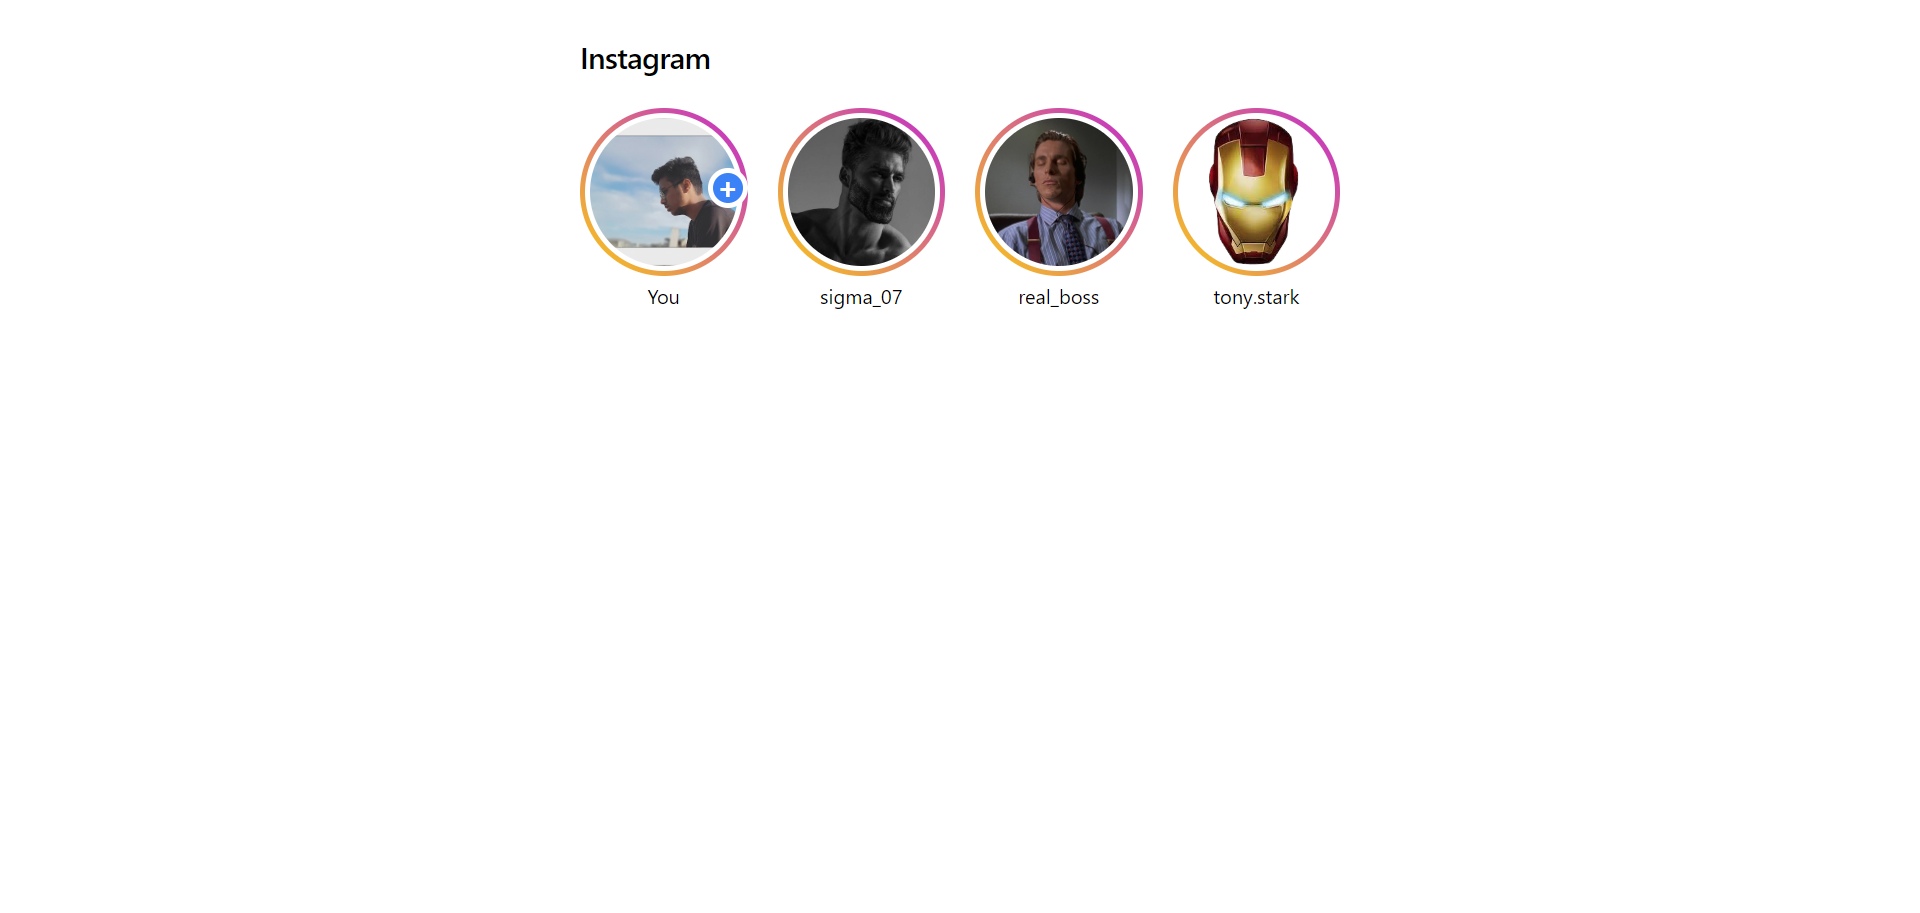
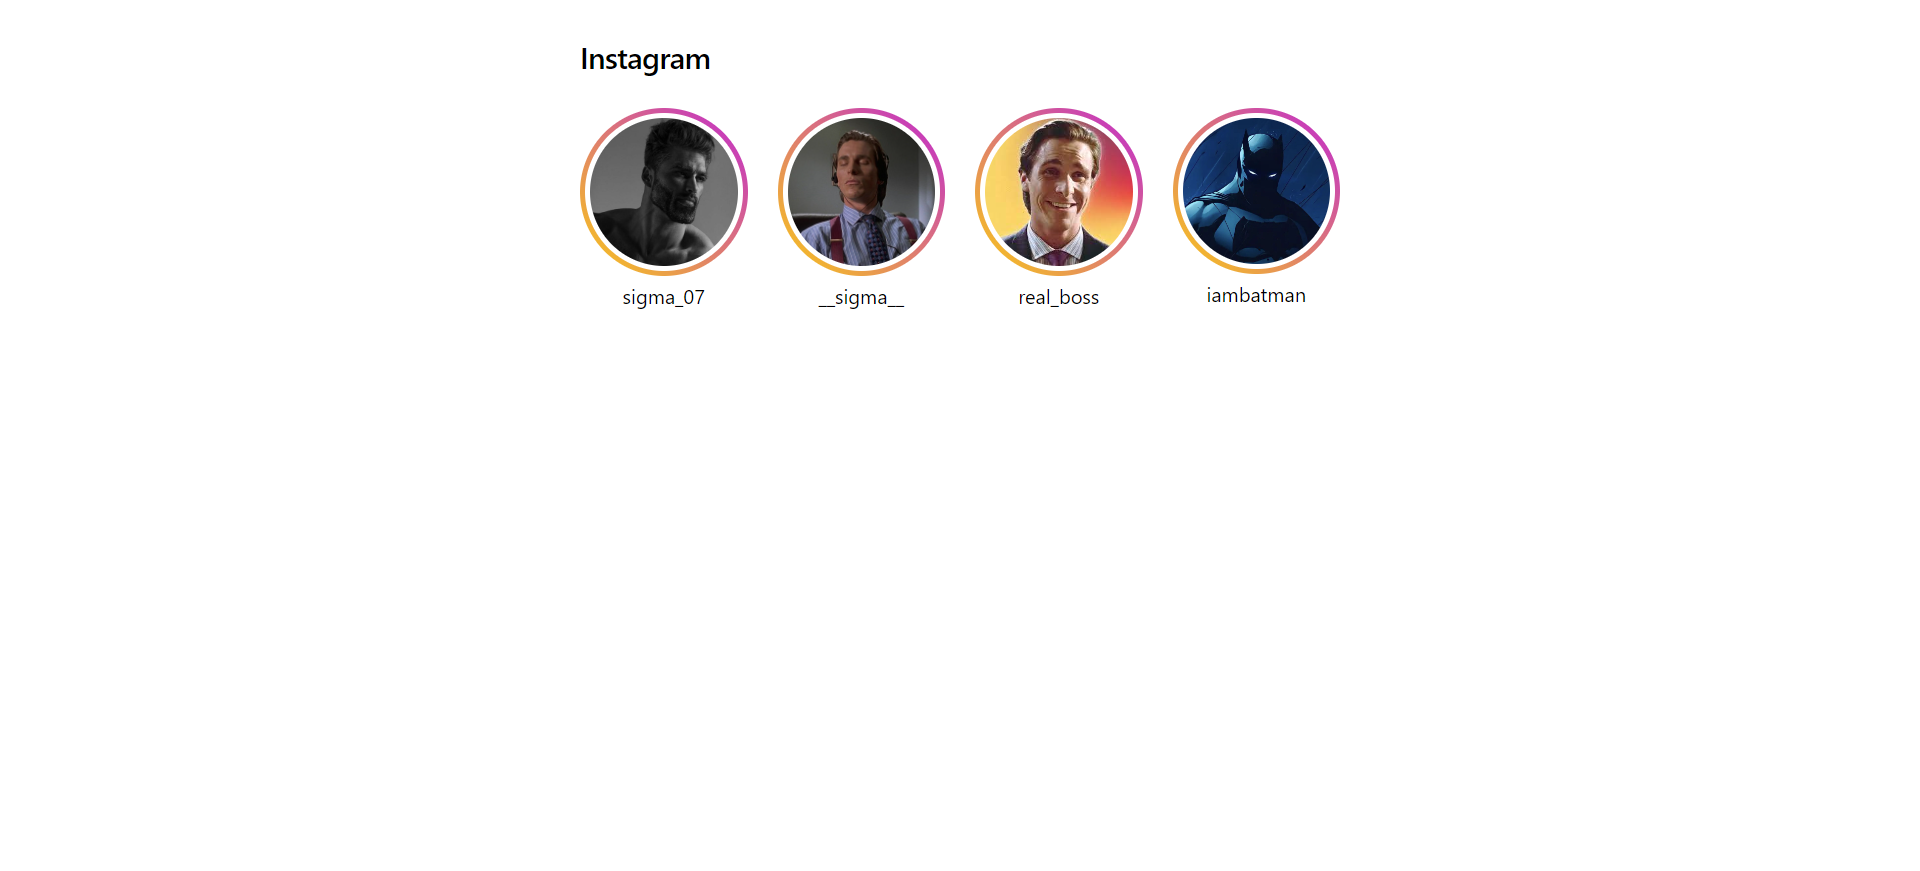
Profile changes

Changed region(s): [[0.2812, 0.093, 0.7188, 0.372], [0.3125, 0.062, 0.375, 0.093]]

diff --git a/dist/assets/index-9c2755db.css b/dist/assets/index-9c2755db.css
@@ -1,0 +1,1 @@
+*,:before,:after{box-sizing:border-box;border-width:0;border-style:solid;border-color:#e5e7eb}:before,:after{--tw-content: ""}html{line-height:1.5;-webkit-text-size-adjust:100%;-moz-tab-size:4;-o-tab-size:4;tab-size:4;font-family:ui-sans-serif,system-ui,-apple-system,BlinkMacSystemFont,Segoe UI,Roboto,Helvetica Neue,Arial,Noto Sans,sans-serif,"Apple Color Emoji","Segoe UI Emoji",Segoe UI Symbol,"Noto Color Emoji";font-feature-settings:normal;font-variation-settings:normal}body{margin:0;line-height:inherit}hr{height:0;color:inherit;border-top-width:1px}abbr:where([title]){-webkit-text-decoration:underline dotted;text-decoration:underline dotted}h1,h2,h3,h4,h5,h6{font-size:inherit;font-weight:inherit}a{color:inherit;text-decoration:inherit}b,strong{font-weight:bolder}code,kbd,samp,pre{font-family:ui-monospace,SFMono-Regular,Menlo,Monaco,Consolas,Liberation Mono,Courier New,monospace;font-size:1em}small{font-size:80%}sub,sup{font-size:75%;line-height:0;position:relative;vertical-align:baseline}sub{bottom:-.25em}sup{top:-.5em}table{text-indent:0;border-color:inherit;border-collapse:collapse}button,input,optgroup,select,textarea{font-family:inherit;font-feature-settings:inherit;font-variation-settings:inherit;font-size:100%;font-weight:inherit;line-height:inherit;color:inherit;margin:0;padding:0}button,select{text-transform:none}button,[type=button],[type=reset],[type=submit]{-webkit-appearance:button;background-color:transparent;background-image:none}:-moz-focusring{outline:auto}:-moz-ui-invalid{box-shadow:none}progress{vertical-align:baseline}::-webkit-inner-spin-button,::-webkit-outer-spin-button{height:auto}[type=search]{-webkit-appearance:textfield;outline-offset:-2px}::-webkit-search-decoration{-webkit-appearance:none}::-webkit-file-upload-button{-webkit-appearance:button;font:inherit}summary{display:list-item}blockquote,dl,dd,h1,h2,h3,h4,h5,h6,hr,figure,p,pre{margin:0}fieldset{margin:0;padding:0}legend{padding:0}ol,ul,menu{list-style:none;margin:0;padding:0}dialog{padding:0}textarea{resize:vertical}input::-moz-placeholder,textarea::-moz-placeholder{opacity:1;color:#9ca3af}input::placeholder,textarea::placeholder{opacity:1;color:#9ca3af}button,[role=button]{cursor:pointer}:disabled{cursor:default}img,svg,video,canvas,audio,iframe,embed,object{display:block;vertical-align:middle}img,video{max-width:100%;height:auto}[hidden]{display:none}*,:before,:after{--tw-border-spacing-x: 0;--tw-border-spacing-y: 0;--tw-translate-x: 0;--tw-translate-y: 0;--tw-rotate: 0;--tw-skew-x: 0;--tw-skew-y: 0;--tw-scale-x: 1;--tw-scale-y: 1;--tw-pan-x: ;--tw-pan-y: ;--tw-pinch-zoom: ;--tw-scroll-snap-strictness: proximity;--tw-gradient-from-position: ;--tw-gradient-via-position: ;--tw-gradient-to-position: ;--tw-ordinal: ;--tw-slashed-zero: ;--tw-numeric-figure: ;--tw-numeric-spacing: ;--tw-numeric-fraction: ;--tw-ring-inset: ;--tw-ring-offset-width: 0px;--tw-ring-offset-color: #fff;--tw-ring-color: rgb(59 130 246 / .5);--tw-ring-offset-shadow: 0 0 #0000;--tw-ring-shadow: 0 0 #0000;--tw-shadow: 0 0 #0000;--tw-shadow-colored: 0 0 #0000;--tw-blur: ;--tw-brightness: ;--tw-contrast: ;--tw-grayscale: ;--tw-hue-rotate: ;--tw-invert: ;--tw-saturate: ;--tw-sepia: ;--tw-drop-shadow: ;--tw-backdrop-blur: ;--tw-backdrop-brightness: ;--tw-backdrop-contrast: ;--tw-backdrop-grayscale: ;--tw-backdrop-hue-rotate: ;--tw-backdrop-invert: ;--tw-backdrop-opacity: ;--tw-backdrop-saturate: ;--tw-backdrop-sepia: }::backdrop{--tw-border-spacing-x: 0;--tw-border-spacing-y: 0;--tw-translate-x: 0;--tw-translate-y: 0;--tw-rotate: 0;--tw-skew-x: 0;--tw-skew-y: 0;--tw-scale-x: 1;--tw-scale-y: 1;--tw-pan-x: ;--tw-pan-y: ;--tw-pinch-zoom: ;--tw-scroll-snap-strictness: proximity;--tw-gradient-from-position: ;--tw-gradient-via-position: ;--tw-gradient-to-position: ;--tw-ordinal: ;--tw-slashed-zero: ;--tw-numeric-figure: ;--tw-numeric-spacing: ;--tw-numeric-fraction: ;--tw-ring-inset: ;--tw-ring-offset-width: 0px;--tw-ring-offset-color: #fff;--tw-ring-color: rgb(59 130 246 / .5);--tw-ring-offset-shadow: 0 0 #0000;--tw-ring-shadow: 0 0 #0000;--tw-shadow: 0 0 #0000;--tw-shadow-colored: 0 0 #0000;--tw-blur: ;--tw-brightness: ;--tw-contrast: ;--tw-grayscale: ;--tw-hue-rotate: ;--tw-invert: ;--tw-saturate: ;--tw-sepia: ;--tw-drop-shadow: ;--tw-backdrop-blur: ;--tw-backdrop-brightness: ;--tw-backdrop-contrast: ;--tw-backdrop-grayscale: ;--tw-backdrop-hue-rotate: ;--tw-backdrop-invert: ;--tw-backdrop-opacity: ;--tw-backdrop-saturate: ;--tw-backdrop-sepia: }.relative{position:relative}.mx-auto{margin-left:auto;margin-right:auto}.mt-6{margin-top:1.5rem}.block{display:block}.flex{display:flex}.w-60{width:15rem}.max-w-2xl{max-width:42rem}.flex-col{flex-direction:column}.items-center{align-items:center}.space-x-6>:not([hidden])~:not([hidden]){--tw-space-x-reverse: 0;margin-right:calc(1.5rem * var(--tw-space-x-reverse));margin-left:calc(1.5rem * calc(1 - var(--tw-space-x-reverse)))}.space-y-1>:not([hidden])~:not([hidden]){--tw-space-y-reverse: 0;margin-top:calc(.25rem * calc(1 - var(--tw-space-y-reverse)));margin-bottom:calc(.25rem * var(--tw-space-y-reverse))}.rounded-full{border-radius:9999px}.bg-white{--tw-bg-opacity: 1;background-color:rgb(255 255 255 / var(--tw-bg-opacity))}.bg-gradient-to-tr{background-image:linear-gradient(to top right,var(--tw-gradient-stops))}.from-yellow-400{--tw-gradient-from: #facc15 var(--tw-gradient-from-position);--tw-gradient-to: rgb(250 204 21 / 0) var(--tw-gradient-to-position);--tw-gradient-stops: var(--tw-gradient-from), var(--tw-gradient-to)}.to-fuchsia-600{--tw-gradient-to: #c026d3 var(--tw-gradient-to-position)}.p-1{padding:.25rem}.p-8{padding:2rem}.text-2xl{font-size:1.5rem;line-height:2rem}.font-semibold{font-weight:600}.tracking-tight{letter-spacing:-.025em}.text-black{--tw-text-opacity: 1;color:rgb(0 0 0 / var(--tw-text-opacity))}@media (min-width: 640px){.sm\:leading-snug{line-height:1.375}}

diff --git a/dist/index.html b/dist/index.html
@@ -5,8 +5,9 @@
     <meta charset="UTF-8">
     <meta name="viewport" content="width=device-width, initial-scale=1.0">
     <title>Instagram</title>
-    <link rel="stylesheet" href="/style.css">
-    <link rel="shortcut icon" href="./Assets/Favicon.ico" type="image/x-icon">
+    
+    <link rel="shortcut icon" href="/assets/Favicon-0d3b03b6.ico" type="image/x-icon">
+  <link rel="stylesheet" href="/assets/index-9c2755db.css">
 </head>
 <body>
     <div class="max-w-2xl mx-auto p-8">
@@ -16,40 +17,40 @@
 
         <ul class="mt-6 flex space-x-6">
 
-            <li class="flex flex-col items-center space-y-1">
-                <div class="bg-gradient-to-tr from-yellow-400 to-fuchsia-600 p-1 rounded-full">
-                    <a class="block bg-white p-1 rounded-full" href="#">
-                        <img class="w-60 rounded-full" src="./Assets/Sigma-1.jpg" alt="Story-2">
-                    </a>
-                    </div>
-                    <a href="#">sigma_07</a>
-            </li>
-
-            <li class="flex flex-col items-center space-y-1">
+            <li class="relative flex flex-col items-center space-y-1">
                 <div class="bg-gradient-to-tr from-yellow-400 to-fuchsia-600 p-1 rounded-full">
                 <a class="block bg-white p-1 rounded-full" href="#">
-                    <img class="w-60 rounded-full" src="./Assets/Sigma-2.jpg" alt="Story-2">
+                    <img class="w-60 rounded-full" src="/assets/Me-33a968fd.png" alt="Story-1">
                 </a>
                 </div>
-                <a href="#">__sigma__</a>
+                <a href="#">You</a>
             </li>
 
             <li class="flex flex-col items-center space-y-1">
                 <div class="bg-gradient-to-tr from-yellow-400 to-fuchsia-600 p-1 rounded-full">
                 <a class="block bg-white p-1 rounded-full" href="#">
-                    <img class="w-60 rounded-full" src="./Assets/Sigma-3.jpg" alt="Story-3">
+                    <img class="w-60 rounded-full" src="/assets/Sigma-1-0143ee3d.jpg" alt="Story-2">
+                </a>
+                </div>
+                <a href="#">sigma_07</a>
+            </li>
+
+            <li class="flex flex-col items-center space-y-1">
+                <div class="bg-gradient-to-tr from-yellow-400 to-fuchsia-600 p-1 rounded-full">
+                <a class="block bg-white p-1 rounded-full" href="#">
+                    <img class="w-60 rounded-full" src="/assets/Sigma-2-c2869f68.jpg" alt="Story-3">
                 </a>
                 </div>
                 <a href="#">real_boss</a>
             </li>
 
-            <li class="flex-col items-center space-y-1 hidden sm:flex">
+            <li class="flex flex-col items-center space-y-1">
                 <div class="bg-gradient-to-tr from-yellow-400 to-fuchsia-600 p-1 rounded-full">
                 <a class="block bg-white p-1 rounded-full" href="#">
-                    <img class="w-60 rounded-full" src="./Assets/Sigma-4.jpg" alt="Story-4">
+                    <img class="w-60 rounded-full" src="/assets/IronMan-413d6f10.png" alt="Story-4">
                 </a>
                 </div>
-                <a href="#">iambatman</a>
+                <a href="#">tony.stark</a>
             </li>
 
         </ul>

diff --git a/tailwind.config.js b/tailwind.config.js
@@ -5,6 +5,10 @@ const colors = require('tailwindcss/colors');
 module.exports = {
   content: ["*"],
   theme: {
+    screens: {
+      'sm': '400px',
+      // => @media (min-width: 640px) { ... }
+    },
     extend: {
       colors: {
         fuchsia: colors.fuchsia,
@@ -13,4 +17,5 @@ module.exports = {
   },
   plugins: [],
 }
+
 
